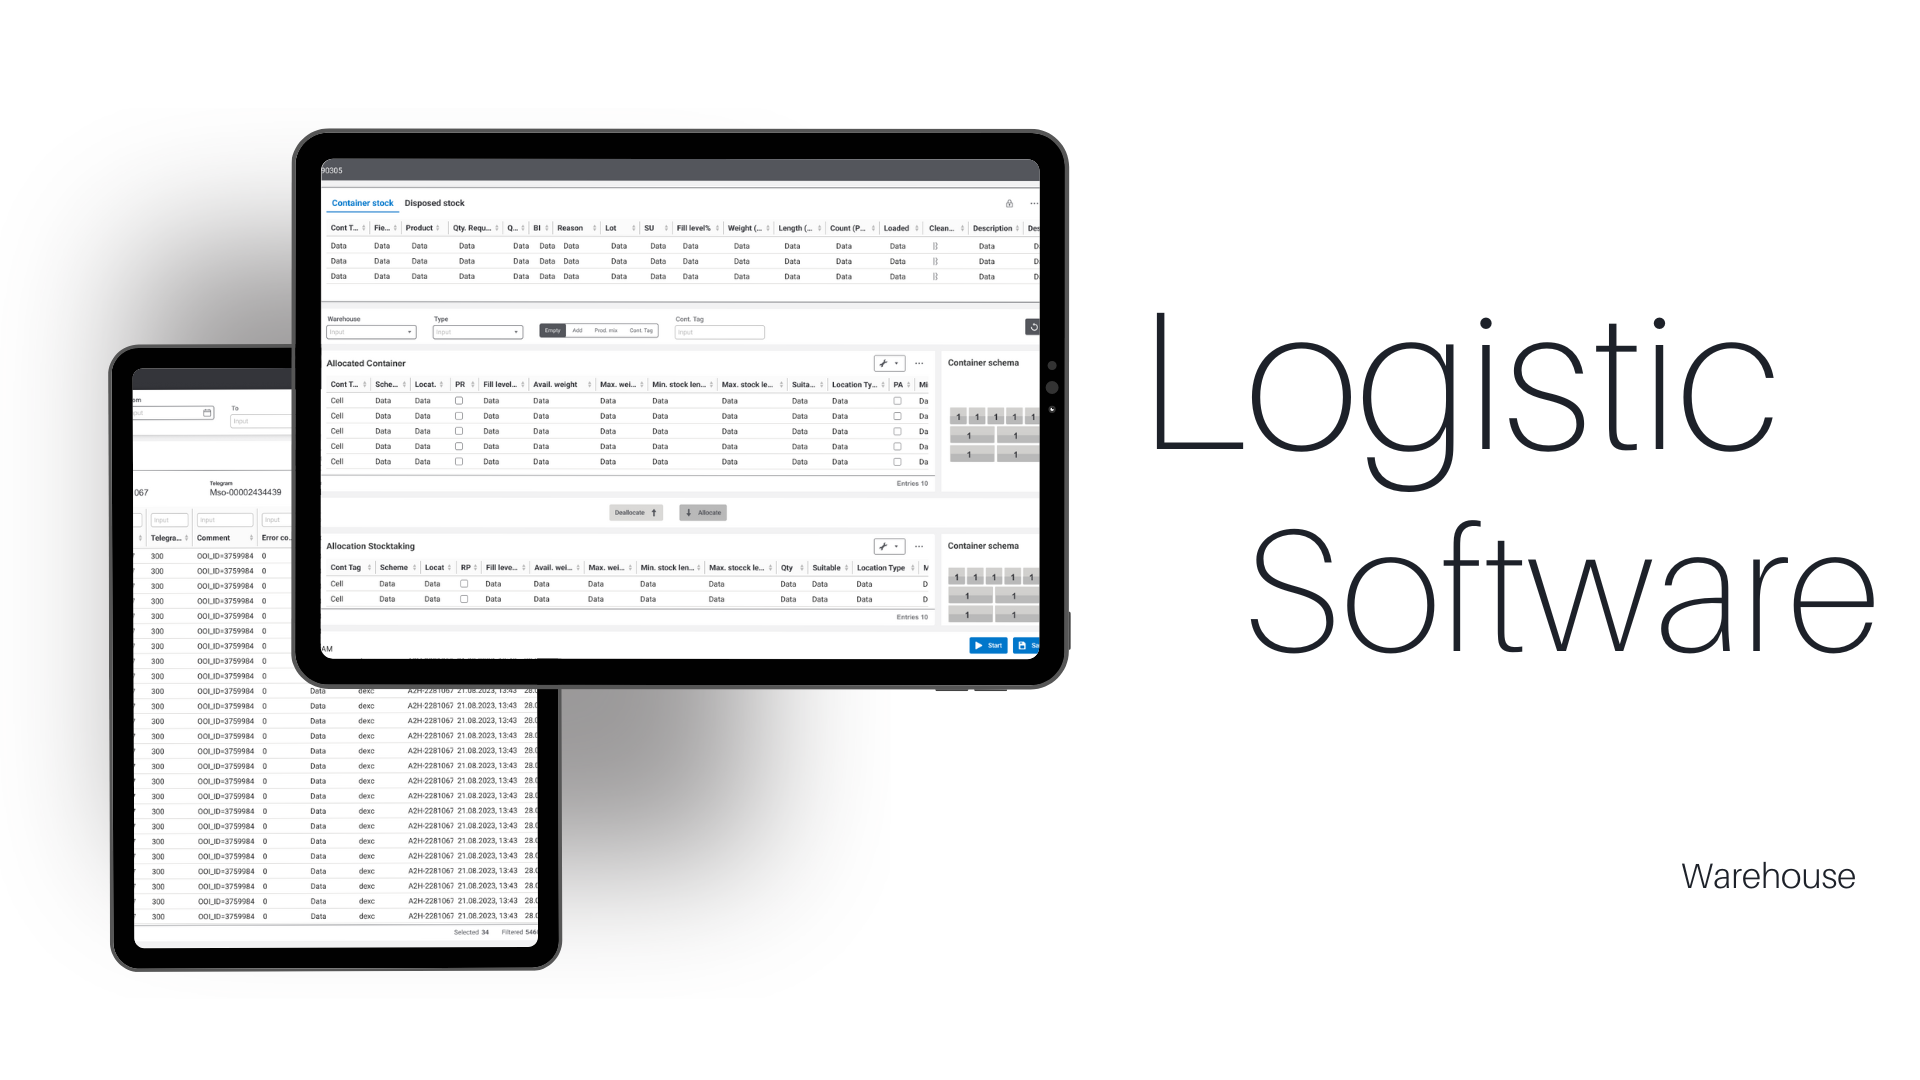
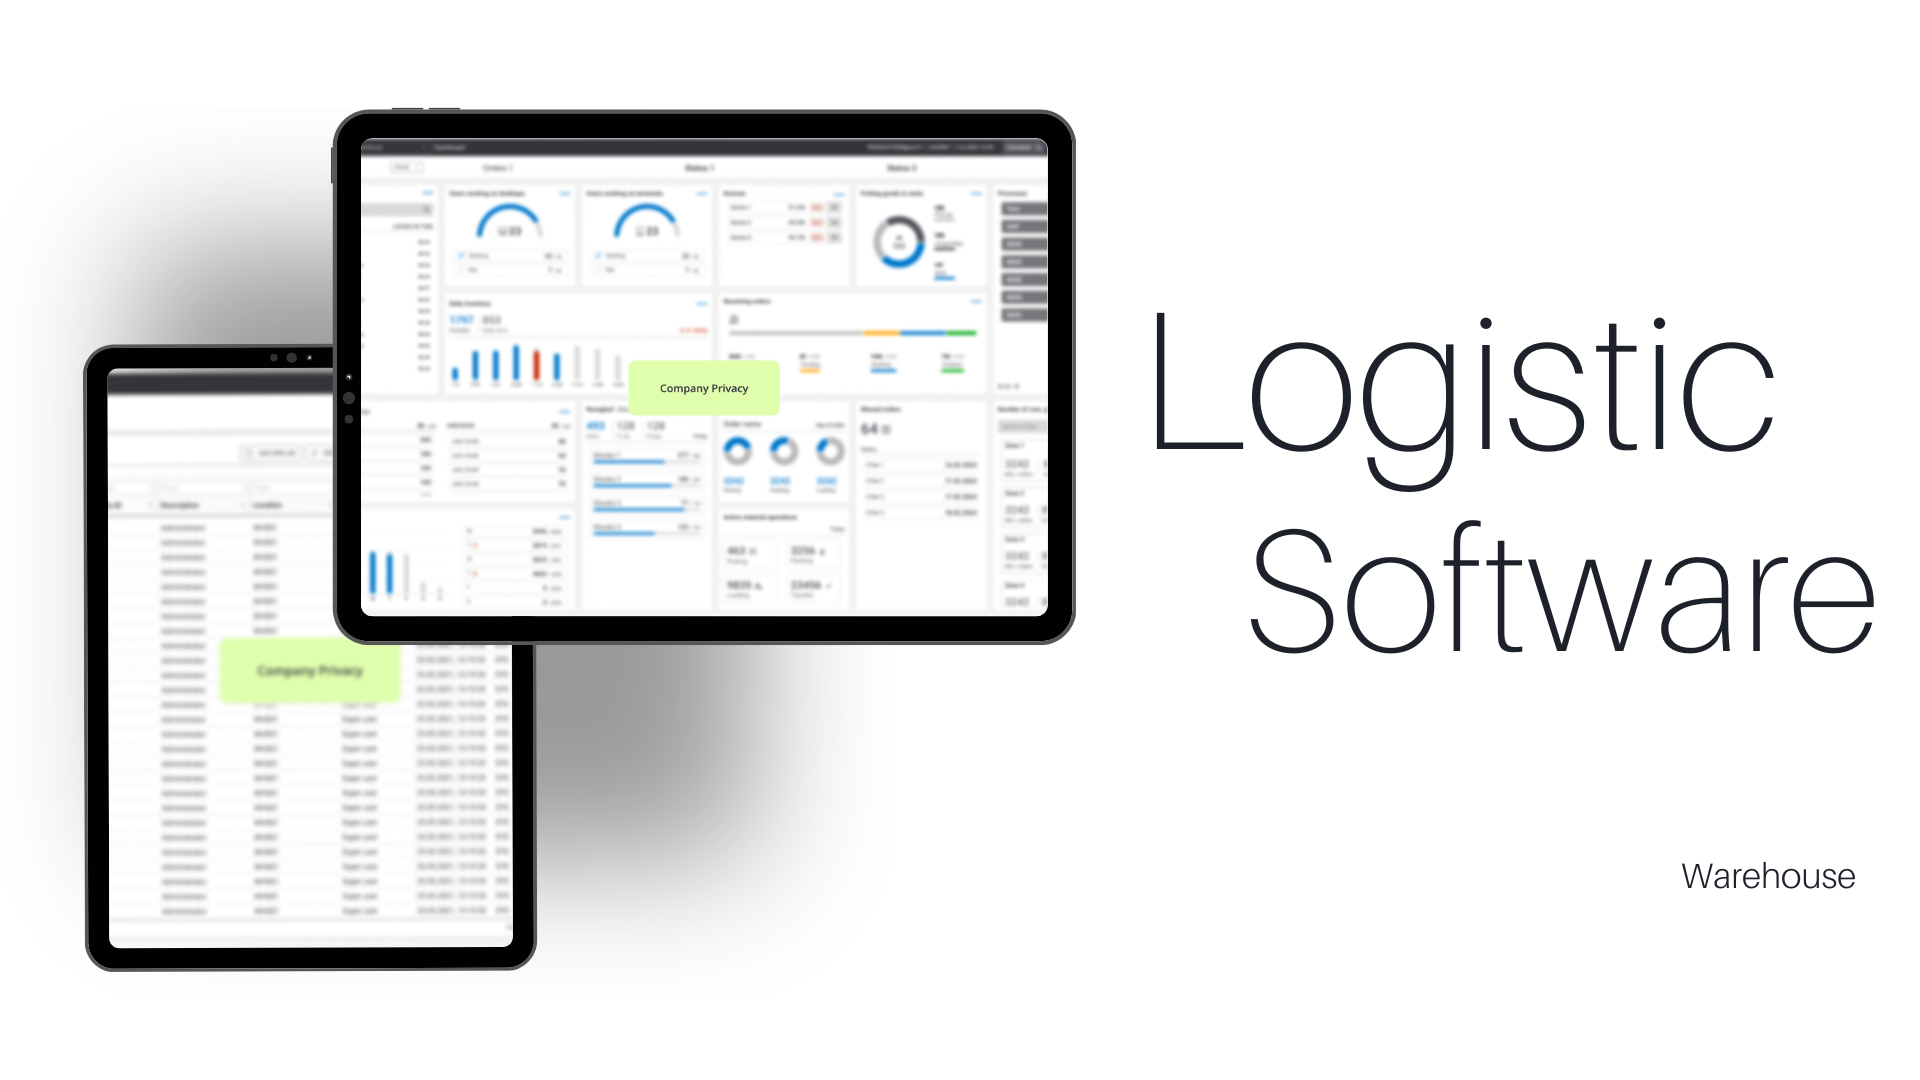
add aboutbuzz page

Changed region(s): [[0.0312, 0.0917, 0.5625, 0.9167]]

diff --git a/aboutbuzz/index.html b/aboutbuzz/index.html
@@ -73,13 +73,13 @@
         <div class="hero-project-design-wrapper">
          <div class="hero-project-design" id="projectHero">
            <figure class="hero-image-box hero-left">
-             <img class="hero-image" src="../img/dlm-1.png" alt="Left project view">
+             <img class="hero-image" src="../img/aboutbuzz-1.jpg" alt="Left project view">
            </figure>
            <figure class="hero-image-box hero-center">
-             <img class="hero-image" src="../img/dlm-start.png" alt="Main project view">
+             <img class="hero-image" src="../img/aboutbuzz-2.jpg" alt="Main project view">
            </figure>
            <figure class="hero-image-box hero-right">
-             <img class="hero-image" src="../img/dlm-2.png" alt="Right project view">
+             <img class="hero-image" src="../img/aboutbuzz-3.jpg" alt="Right project view">
            </figure>
          </div>
       </div>
@@ -128,7 +128,7 @@
             </div>
           </div>
           <div class="mock-up">
-            <img class="mock-up-image" src="../img/dlm-5.png" />
+            <img class="mock-up-image" src="../img/aboutbuzz-7.jpg" />
           </div>
           <div class="animation-formats">
             <div class="animation-formats-horizontally">
@@ -192,7 +192,7 @@
             </div>
           </div>
           <div class="mock-up">
-            <img class="mock-up-image" src="../img/dlm-4.png" />
+            <img class="mock-up-image" src="../img/aboutbuzz-6.jpg" />
           </div>
         </div>
         <div class="methodology-design-text-part">
@@ -265,12 +265,12 @@
                 <img class="desing-part-icon" src="../img/format_shapes.svg"/>
               </div>
               <div class="mock-up-small-box">
-                <img class="mock-up-small-photo" src="../img/dlm-3.png"/>
+                <img class="mock-up-small-photo" src="../img/aboutbuzz-5.jpg"/>
               </div>
             </div>
             <div class="design-part-block">
               <div class="mock-up-small-box">
-                <img class="mock-up-small-photo" src="../img/dlm-6.png"/>
+                <img class="mock-up-small-photo" src="../img/aboutbuzz-4.jpg"/>
               </div>
               <div class="design-part-text-box">
                 <div class="research-box-yellow-and-text">

diff --git a/index.html b/index.html
@@ -202,6 +202,30 @@
         </div>
       <div class="grupe-project" data-model-id="286:2481">
       <div class="project-design ">
+        <img class="img-project-work" src="./img/aboutbuzz.png" />
+        <div class="projekt-group-box-text">
+          <div class="project-overview-2">
+            <div class="project-title">Aboutbuzz</div>
+            <div class="project-year-box">
+              <div class="project-year-text">Year</div>
+              <div class="project-year-number">2026</div>
+            </div>
+          </div>
+          <div class="project-overview-wrapper">
+            <p class="project-bio-text">
+              This project was about designing a website for a marketing agency that offers video reviews 
+              for B2C companies. The website explains the service to businesses, shows examples of video 
+              reviews, and allows people to apply as video reviewers. I conducted user interviews, market research, 
+              and competitor analysis to understand the needs of both groups. 
+            </p>
+          </div>
+          <a class="to-project-button" href="./aboutbuzz">
+            <div class="text-dive-deeper">DIVE DEEPER</div>
+            <img class="arrow-gray" src="./img/arrow-gray.svg"/>
+          </a>
+        </div>
+      </div>
+        <div class="project-design ">
         <img class="img-project-work" src="./img/leksoro.png" />
         <div class="projekt-group-box-text">
           <div class="project-overview-2">
@@ -226,7 +250,7 @@
         </div>
       </div>
       <div class="project-design">
-        <img class="img-project-work" src="./img/dlm.png" />
+        <img class="img-project-work" src="./img/dlm.jpg" />
         <div class="projekt-group-box-text">
           <div class="project-overview-2">
             <div class="project-title">DLM</div>
